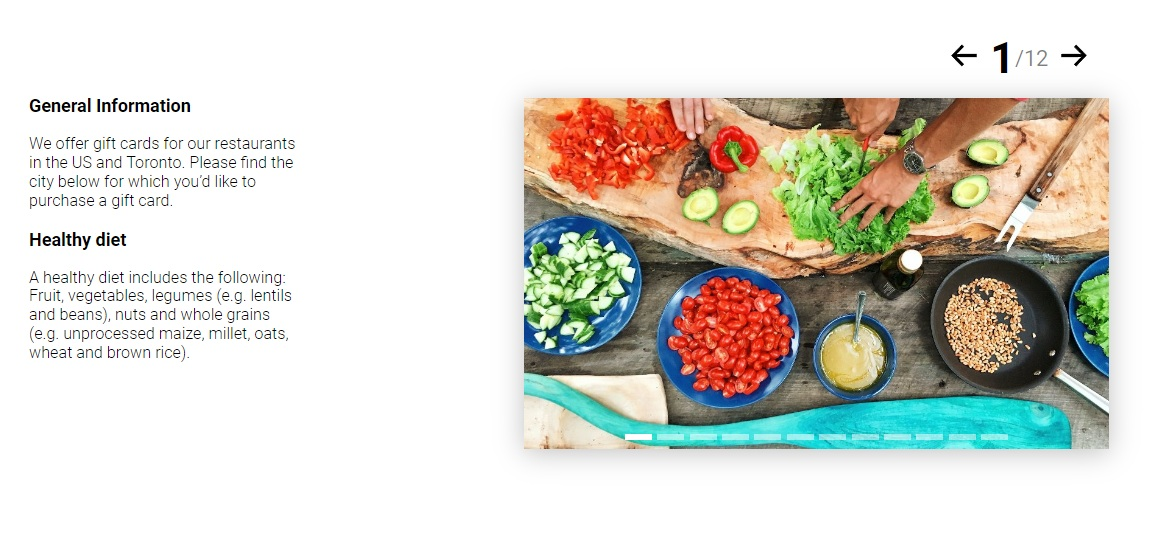
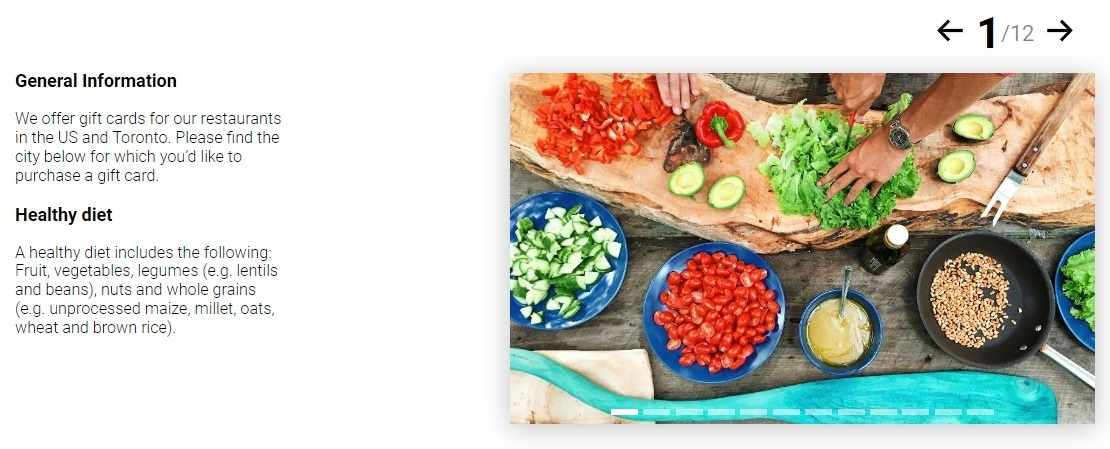
lit update

diff --git a/MySlider-InPureJS/README.md b/MySlider-InPureJS/README.md
@@ -1,6 +1,6 @@
 <p align="center">
   <a href="https://dmytrokabluchii.github.io/my_projects/MySlider-InPureJS/index.html">
-    <img src="./img/example.jpg">
+    <img width="299" height="121"  src="./img/example.jpg">
   </a>
   <h3 align="center">My Slider In Pure JS</h3>
 </p>
